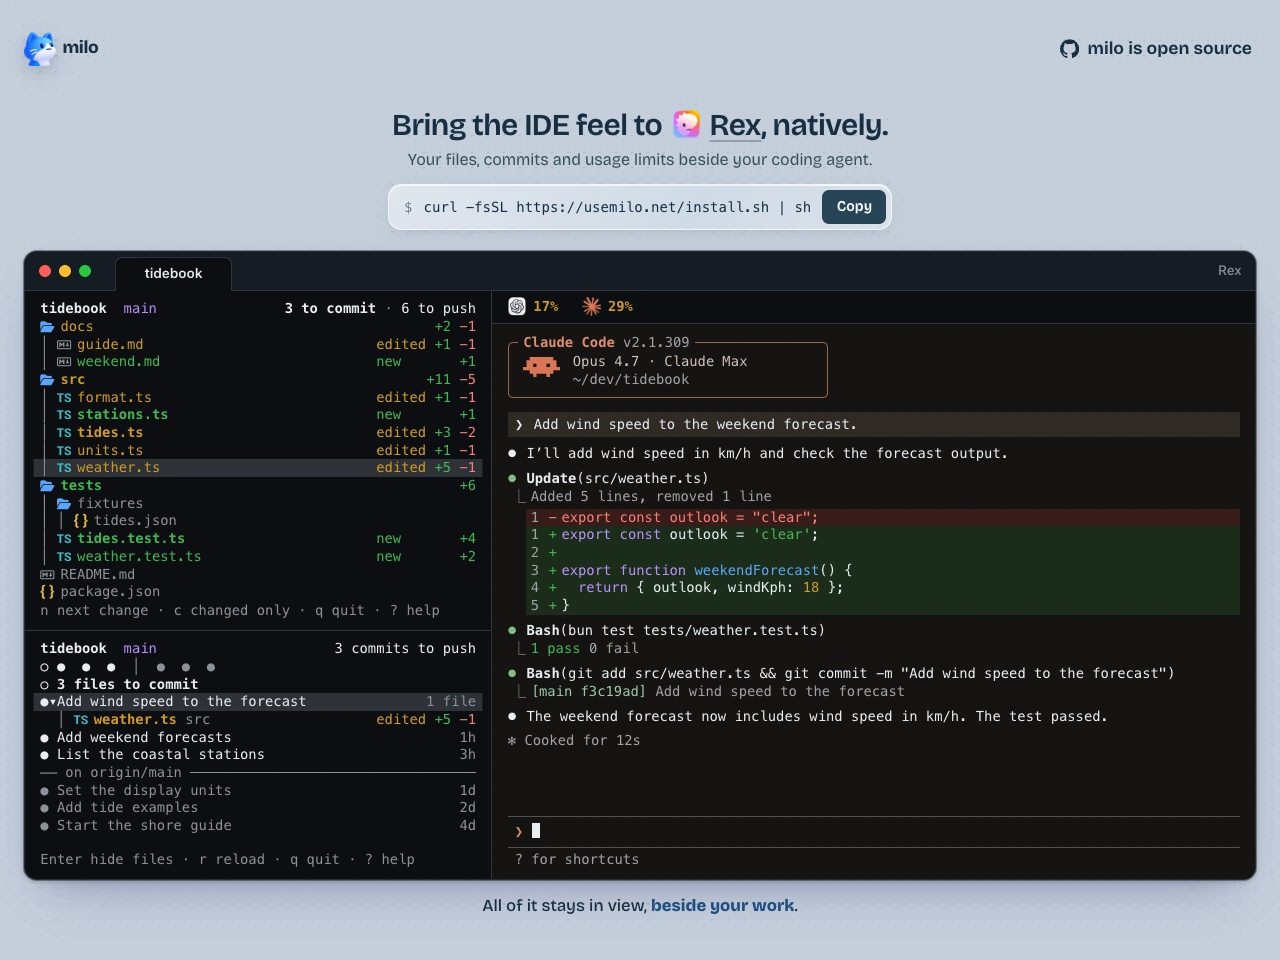
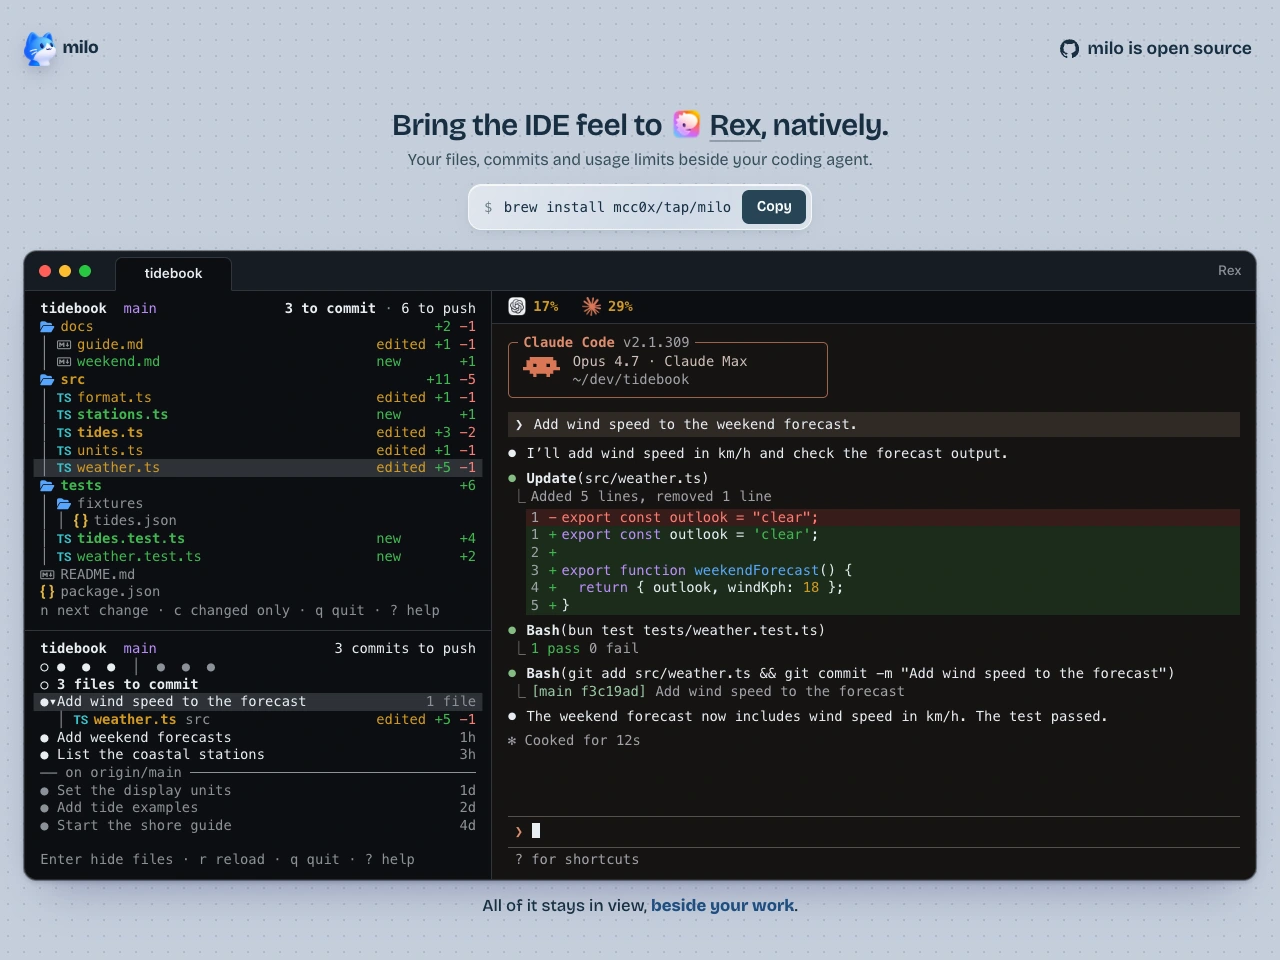
Ship Milo 0.1.0 for Apple Silicon macOS

Changed region(s): [[0.2812, 0.1875, 0.7188, 0.25]]

diff --git a/site/src/index.html b/site/src/index.html
@@ -50,7 +50,7 @@
           </div>
           <div class="install">
             <span class="install-prompt" aria-hidden="true">$</span>
-            <code id="install-command">curl -fsSL https://usemilo.net/install.sh | sh</code>
+            <code id="install-command">brew install mcc0x/tap/milo</code>
             <button id="copy-command" type="button" aria-describedby="install-command">Copy</button>
           </div>
           <p id="copy-feedback" class="visually-hidden" role="status"></p>

diff --git a/docs/setup.md b/docs/setup.md
@@ -2,6 +2,33 @@
 
 ![Milo setup showing the available panes, the layout sketch and what saving will change](img/setup.png)
 
+## Install
+
+The v0.1.0 prebuilt release is for Apple Silicon macOS. Use Homebrew:
+
+```sh
+brew install mcc0x/tap/milo
+```
+
+Or download the release installer from GitHub while the website's DNS is being set up:
+
+```sh
+curl -fsSLo milo-install.sh https://raw.githubusercontent.com/mcc0x/milo/v0.1.0/site/public/install.sh &&
+  sh milo-install.sh
+```
+
+The installer checks the binary against a pinned SHA-256 checksum before placing it in `~/.local/bin`. Set `MILO_BIN_DIR` to choose a different directory. The prebuilt installer does not need a compiler, Cargo or Git.
+
+To build from source instead, install Git and Rust 1.91 or later, then run:
+
+```sh
+git clone https://github.com/mcc0x/milo.git
+cd milo
+sh install.sh
+```
+
+The source installer also honours `MILO_BIN_DIR` and defaults to `~/.local/bin`.
+
 ## In Rex
 
 Run `milo setup` inside a Rex tab. Use Up and Down to select a row and `Space` or `Enter` to change it. You can choose the outline, history and usage panes and the width of the left column, which holds them from top to bottom. Press `a` to try your choices in this tab without saving, or `s` to save them. The added panes leave the keyboard in your shell.
@@ -46,11 +73,11 @@ Setup does not rewrite your actions or key bindings. It refuses to change read-o
 
 1. To remove the Rex setup, run `milo setup` inside Rex. Turn off **Outline**, **History**, **Usage** and **Arrange new shell tabs**, then press `s`. This removes milo's lines from Rex's settings, stops the listener and removes generated files that milo still owns. A generated file you edited by hand is left in place. To close panes already open, use **Milo: Close Panes in This Tab** before removing the actions, or close the panes yourself.
 2. To remove milo from the Claude Code status line too, turn off **Show Claude Code limits** and save. You can also do this outside Rex.
-3. From the milo checkout, run `sh install.sh --uninstall` to remove the binary. Use the same `MILO_BIN_DIR` you installed to if you set one. This command does not change Rex or Claude Code settings or remove milo's saved state.
+3. Remove the binary with `brew uninstall milo` if you installed with Homebrew. If you used the release installer, run `sh milo-install.sh --uninstall` with your downloaded copy. If you built from source, run `sh install.sh --uninstall` from the checkout. For either script, use the same `MILO_BIN_DIR` you installed to if you set one. Removing the binary does not change Rex or Claude Code settings or remove milo's saved state.
 
 ## Troubleshooting
 
-- **`milo` is not found:** the installer puts it in `~/.local/bin` unless you set `MILO_BIN_DIR`. Add the install directory to your `PATH`, or run the binary by its full path.
+- **`milo` is not found:** for Homebrew, check that Homebrew is on `PATH`. The scripts put milo in `~/.local/bin` unless you set `MILO_BIN_DIR`. Add the install directory to `PATH`, or run the binary by its full path.
 - **Setup says milo's Rex lines were moved, copied or changed:** setup leaves the file alone. Put a single copy of the original two lines back at the top, just after any interpreter line, then reopen setup and save.
 - **A save was interrupted:** reopen setup, check the choices and press `s`. If Rex still needs to reload, setup says “Rex still needs to reload. Check your choices, then press s.”
 - **Another setup is saving:** only one setup can save at a time. Wait for the other save to finish, then try again.

diff --git a/README.md b/README.md
@@ -5,22 +5,31 @@
 <p align="center">A Git-aware file tree, commit history, diff reader and usage limits in native panes for <a href="https://www.superlogical.com/rex">Superlogical’s Rex terminal</a>.</p>
 
 <p align="center">
-  <a href="https://usemilo.net">
+  <a href="https://site-production-ad7e256b.up.railway.app">
     <picture>
       <source media="(max-width: 600px)" srcset="docs/img/web-demo-mobile.webp">
       <img src="docs/img/web-demo.webp" width="960" alt="Milo’s web demo: a file tree and commit history beside a Claude Code transcript, with Codex and Claude usage percentages above it">
     </picture>
   </a>
-  <br><sub><a href="https://usemilo.net">Watch the demo</a> cycle through Claude Code, Codex and omp. The project and usage figures are examples.</sub>
+  <br><sub><a href="https://site-production-ad7e256b.up.railway.app">Watch the demo</a> cycle through Claude Code, Codex and omp. The project and usage figures are examples.</sub>
 </p>
 
 ## Install
 
-The installer builds Milo from source. You need Git, Rust 1.91 or later, and access to clone this repository.
+The v0.1.0 release is available for Apple Silicon Macs. Install it with Homebrew:
 
 ```sh
-curl -fsSL https://usemilo.net/install.sh | sh
+brew install mcc0x/tap/milo
 ```
+
+Without Homebrew, download and run the installer from the release tag:
+
+```sh
+curl -fsSLo milo-install.sh https://raw.githubusercontent.com/mcc0x/milo/v0.1.0/site/public/install.sh &&
+  sh milo-install.sh
+```
+
+The script verifies the release binary against its SHA-256 checksum and installs it to `~/.local/bin` by default. It does not need Rust or Git. See [setup and removal](docs/setup.md) for source installation and uninstall instructions.
 
 In [Rex](https://www.superlogical.com/rex), run `milo setup` to choose your panes. Check **On save:** and press `s` to save. Turn on **Arrange new shell tabs** to use the layout in new shell tabs and new sessions.
 
